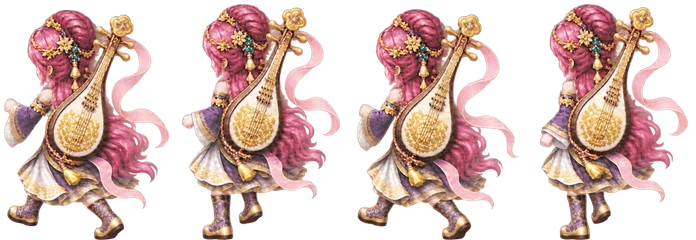
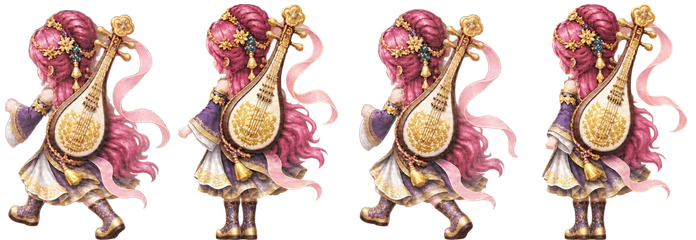
道家女背面行走表：站立/过渡帧改用并脚平放的版本，迈步帧用新生成的
Claude-Session: https://claude.ai/code/session_01Ug7SvjxsTvGWtWQTYLfcGg

diff --git a/js/assets.js b/js/assets.js
@@ -478,7 +478,7 @@ window.ASSETS = {
   "walk_b_dao_ty": [
    87.0,
    120.0,
-   44.52692626346313
+   45.2175
   ],
   "walk_f_dao_qm": [
    97.0,
@@ -486,9 +486,9 @@ window.ASSETS = {
    51.42605915267786
   ],
   "walk_b_dao_qm": [
-   90.5,
+   90.0,
    120.0,
-   46.95238095238095
+   46.9875
   ],
   "b_dao_ty": [
    114.5,
@@ -560,9 +560,9 @@ window.ASSETS = {
    51.97423510466989
   ],
   "walk_b_dao_dz": [
-   88.5,
+   89.5,
    120.0,
-   49.061293031066334
+   48.87468671679198
   ],
   "b_dao_dz": [
    93.0,
